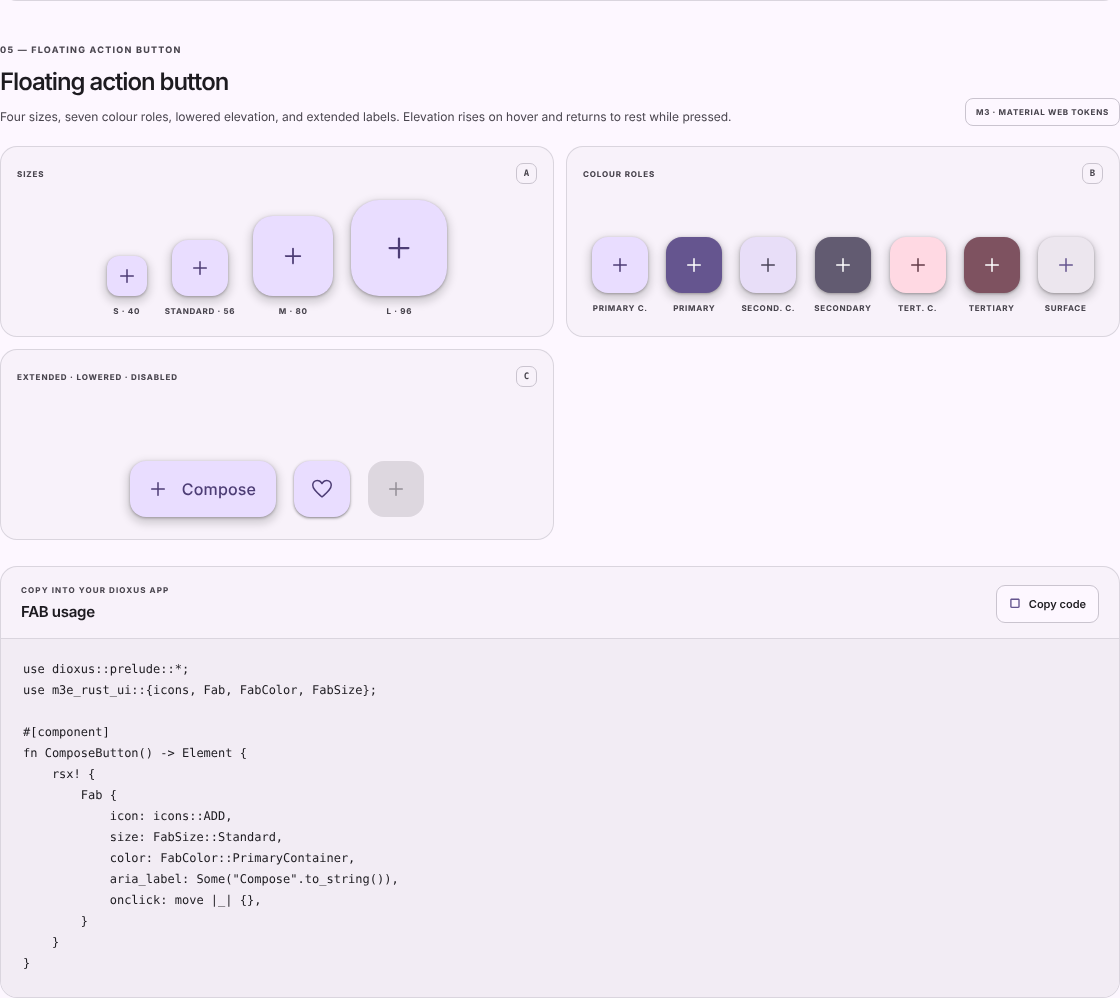
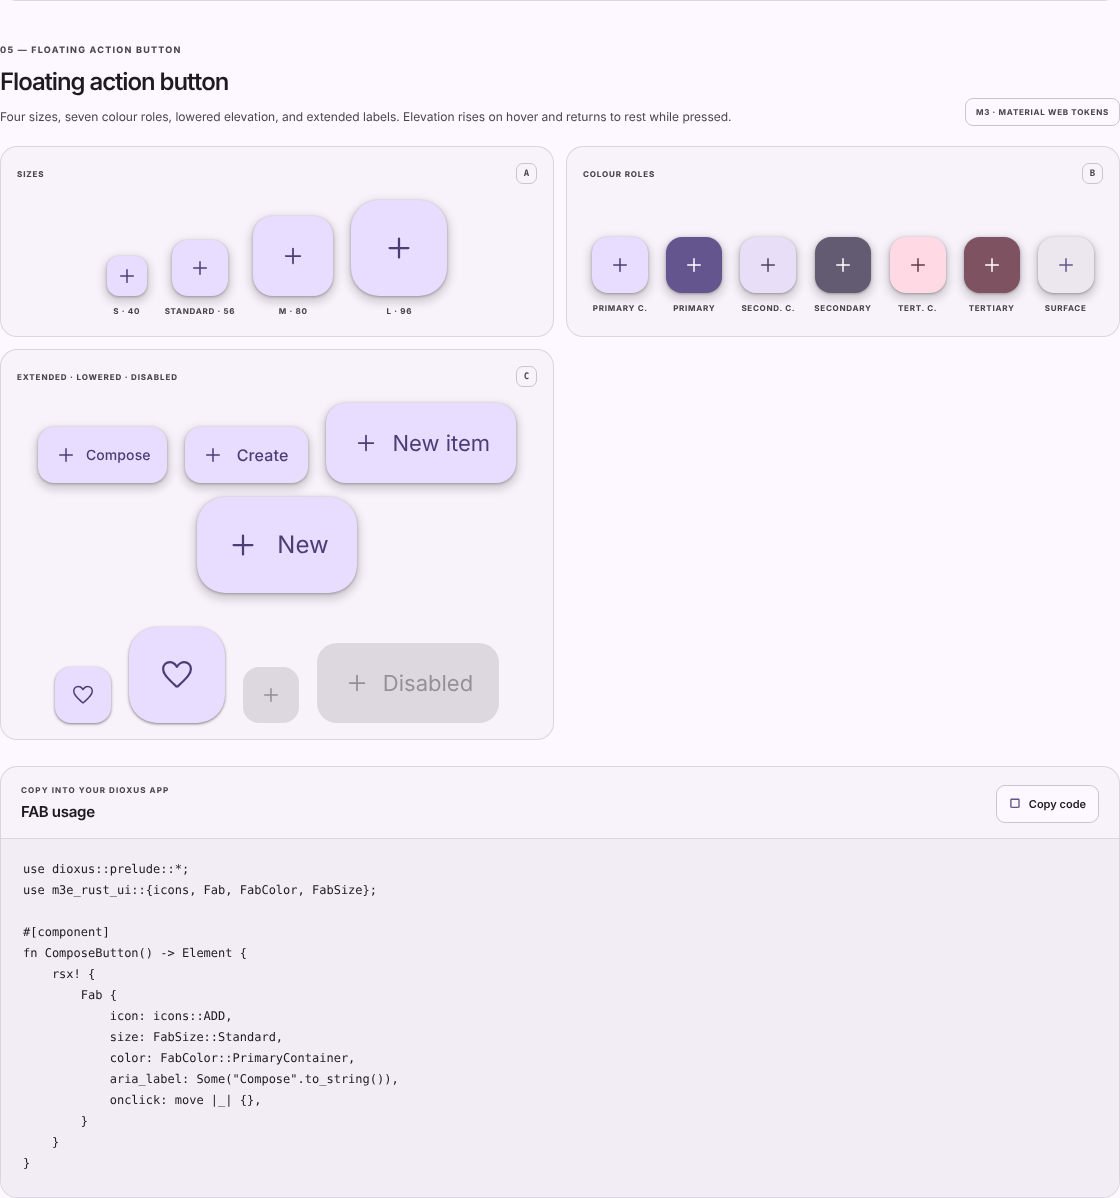
Add extended FAB sizes small, medium and large
Extended FAB now has the official Material Web sizes. Heights are 56, 56, 80
and 96px, with per-size corners, icon sizes, paddings, icon-label gaps and
label type (label-large, title-medium, title-large, headline-small). The
browser measurements match the tokens for all four sizes.

Not implemented: branded FAB, FAB menu and toolbar floating FAB.

Claude-Session: https://claude.ai/code/session_01Axwjub16uUbdKYRRURzMoE

diff --git a/assets/fab.css b/assets/fab.css
@@ -62,15 +62,54 @@
 .m3-fab--medium { --fab-size: 80px; --fab-radius: 20px; --fab-icon-size: 28px; }
 .m3-fab--large { --fab-size: 96px; --fab-radius: 28px; --fab-icon-size: 36px; }
 
-/* Extended: standard height, icon and label. */
+/* Extended FAB: the label sets the width. Heights, spacing and label type
+   follow Material Web's extended FAB tokens for each size, and differ from
+   the icon-only sizes above (for example, extended small is 56px tall). */
 .m3-fab--extended {
-  gap: 12px;
+  --fab-gap: 12px;
+  --fab-lead: 16px;
+  --fab-trail: 20px;
   width: auto;
-  height: 56px;
-  padding-inline: 16px 20px;
-  border-radius: 16px;
+  height: var(--fab-size);
+  gap: var(--fab-gap);
+  padding-inline: var(--fab-lead) var(--fab-trail);
   font: 500 16px/24px Inter, ui-sans-serif, system-ui, sans-serif;
-  letter-spacing: .01em;
+  letter-spacing: .009375rem;
+}
+.m3-fab--extended.m3-fab--small {
+  --fab-size: 56px;
+  --fab-radius: 16px;
+  --fab-icon-size: 24px;
+  --fab-gap: 8px;
+  --fab-lead: 16px;
+  --fab-trail: 16px;
+  font: 500 14px/20px Inter, ui-sans-serif, system-ui, sans-serif;
+  letter-spacing: .00625rem;
+}
+.m3-fab--extended.m3-fab--standard {
+  --fab-size: 56px;
+  --fab-radius: 16px;
+  --fab-icon-size: 24px;
+}
+.m3-fab--extended.m3-fab--medium {
+  --fab-size: 80px;
+  --fab-radius: 20px;
+  --fab-icon-size: 28px;
+  --fab-gap: 12px;
+  --fab-lead: 26px;
+  --fab-trail: 26px;
+  font: 400 22px/28px Inter, ui-sans-serif, system-ui, sans-serif;
+  letter-spacing: 0;
+}
+.m3-fab--extended.m3-fab--large {
+  --fab-size: 96px;
+  --fab-radius: 28px;
+  --fab-icon-size: 36px;
+  --fab-gap: 16px;
+  --fab-lead: 28px;
+  --fab-trail: 28px;
+  font: 400 24px/32px Inter, ui-sans-serif, system-ui, sans-serif;
+  letter-spacing: 0;
 }
 
 /* Colour roles: container, then the paired icon colour. */

diff --git a/src/main.rs b/src/main.rs
@@ -348,10 +348,17 @@ fn App() -> Element {
                     }
                     article { class: "demo-card fab-specimen",
                         div { class: "card-topline", span { "EXTENDED · LOWERED · DISABLED" } span { class: "component-index", "C" } }
+                        div { class: "fab-row fab-row-wrap",
+                            Fab { icon: icons::ADD, size: FabSize::Small, label: Some("Compose".to_string()), aria_label: Some("Compose".to_string()) }
+                            Fab { icon: icons::ADD, size: FabSize::Standard, label: Some("Create".to_string()), aria_label: Some("Create".to_string()) }
+                            Fab { icon: icons::ADD, size: FabSize::Medium, label: Some("New item".to_string()), aria_label: Some("New item".to_string()) }
+                            Fab { icon: icons::ADD, size: FabSize::Large, label: Some("New".to_string()), aria_label: Some("New".to_string()) }
+                        }
                         div { class: "fab-row",
-                            Fab { icon: icons::ADD, label: Some("Compose".to_string()), aria_label: Some("Compose".to_string()) }
                             Fab { icon: icons::FAVORITE, lowered: true, aria_label: Some("Favourite, lowered".to_string()) }
+                            Fab { icon: icons::FAVORITE, size: FabSize::Large, lowered: true, aria_label: Some("Favourite large, lowered".to_string()) }
                             Fab { icon: icons::ADD, disabled: true, aria_label: Some("Disabled".to_string()) }
+                            Fab { icon: icons::ADD, size: FabSize::Medium, label: Some("Disabled".to_string()), disabled: true, aria_label: Some("Disabled extended".to_string()) }
                         }
                     }
                     CodeCard { eyebrow: "COPY INTO YOUR DIOXUS APP", title: "FAB usage", code: FAB_USAGE }

diff --git a/src/components/fab.rs b/src/components/fab.rs
@@ -3,8 +3,9 @@ use dioxus::prelude::*;
 
 use super::{Icon, IconData};
 
-/// Floating action button size. Container and icon sizes follow Material Web's
-/// FAB tokens: 40/56/80/96dp containers with 24/24/28/36dp icons.
+/// Floating action button size. Icon-only containers follow Material Web's FAB
+/// tokens: 40/56/80/96dp with 24/24/28/36dp icons. An extended FAB (a label is
+/// given) uses 56/56/80/96dp heights, so its small size differs from the icon-only one.
 #[derive(Clone, Copy, Debug, Default, PartialEq, Eq)]
 pub enum FabSize {
     Small,

diff --git a/docs/fab-verification.md b/docs/fab-verification.md
@@ -38,7 +38,7 @@ Desktop only. Android Chrome has **not** been tested.
 | Elevation pressed | level 3 (back from hover) | Material Web `pressed-container-elevation` |
 | Lowered rest / hover / pressed | level 1 / level 2 / level 1 | Material Web `lowered-*-elevation` |
 | Disabled | container 12% on-surface, icon 38% on-surface, no shadow | **Upstream fab.tsx.** The Material Web FAB token files do not define disabled values. |
-| Extended FAB | standard height 56px, 16px leading, 20px trailing, 12px icon-label gap, label 16/24 weight 500 | Standard extended values from Material Web's extended FAB tokens. The label typography is **upstream**. |
+| Extended FAB S / standard / M / L | Heights 56 / 56 / 80 / 96px. Corners 16 / 16 / 20 / 28px. Icons 24 / 24 / 28 / 36px. Leading and trailing space 16 / 20 / 26 / 28px. Icon-label gap 8 / 12 / 12 / 16px. Labels: label-large 14/20 (500), title-medium 16/24 (500), title-large 22/28 (400), headline-small 24/32 (400). | Material Web extended FAB tokens and the Material Web type-scale tokens. The label typography in the upstream reference differs; the official values are used. |
 | Focus ring | 3px `secondary`, 2px offset | Upstream `focus-ring`. The Button uses `primary`. |
 | Press model | Pointer and Space set the pressed class. No minimum press time. | Same as switch and checkbox |
 | Touch target | Container size (40dp minimum for small) | Material size |
@@ -50,8 +50,8 @@ Deliberate differences from the upstream reference:
   Upstream uses its own rounded scale.
 - **No ripple.** Feedback is the state layer and elevation.
 - **No pressed shape morph.** The FAB keeps its corner radius while pressed.
-- **Extended FAB is standard size only.** Small, medium and large extended
-  variants are not implemented yet. The official token files exist for them.
+- **Extended heights.** An extended small FAB is 56px tall, not 40px. Upstream
+  does not specify a separate extended small size.
 
 ## 3. Input, state and platform matrix
 
@@ -70,6 +70,7 @@ Raw data: [`fab-motion-samples.json`](fab-motion-samples.json).
 | Lowered at rest | shadow level 1 |
 | Lowered hover | shadow level 2 |
 | Disabled | no shadow; pointer press does not set the pressed class |
+| Extended S / standard / M / L | Measured in the browser: heights, corners, icon sizes, paddings, icon-label gaps and label type all match the tokens. Raw data: [`fab-extended-samples.json`](fab-extended-samples.json). |
 | Pointer click calling `onclick` | **Not tested.** The preview has no handler, and the handler wiring is not asserted. |
 | Enter key | Not tested |
 | Focus via Tab | Not tested beyond `focus()` |
@@ -96,6 +97,7 @@ needed. Each state was checked with live computed styles.
 ## 6. Evidence
 
 - Raw measurements: [`fab-motion-samples.json`](fab-motion-samples.json)
+- Extended measurements: [`fab-extended-samples.json`](fab-extended-samples.json)
 - Section screenshot: [`fab-section.png`](fab-section.png). A resting state, not
   a mid-animation capture.
 
@@ -104,7 +106,7 @@ needed. Each state was checked with live computed styles.
 - **Official Material pages not read.** Check the FAB spec and guidelines
   text once `m3.material.io` is reachable.
 - **Click handler not tested.** The `onclick` path needs an assertion.
-- **Extended S, M and L** are not implemented.
+- **Branded FAB, FAB menu and toolbar floating FAB** are separate Material Web variants and are not implemented.
 - **Shadow transition not sampled mid-animation.** The transition is 200ms, but the
   intermediate shadow values were not captured.
 - **Android touch and reduced motion** have not been tested.
